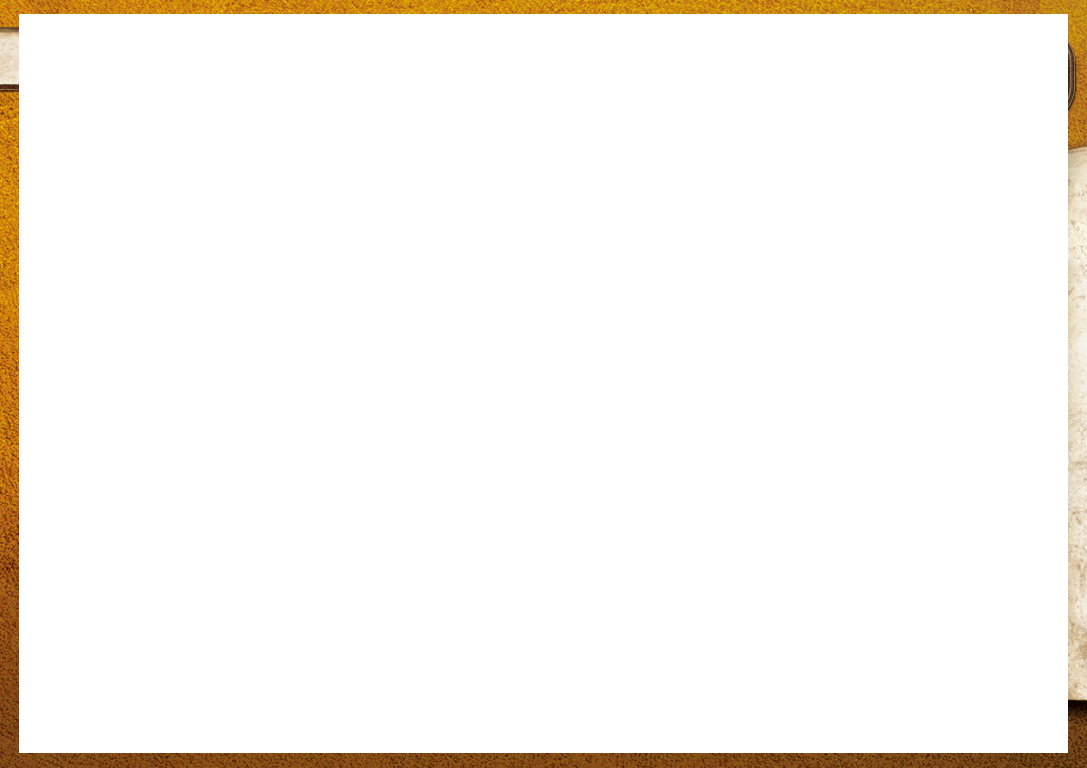
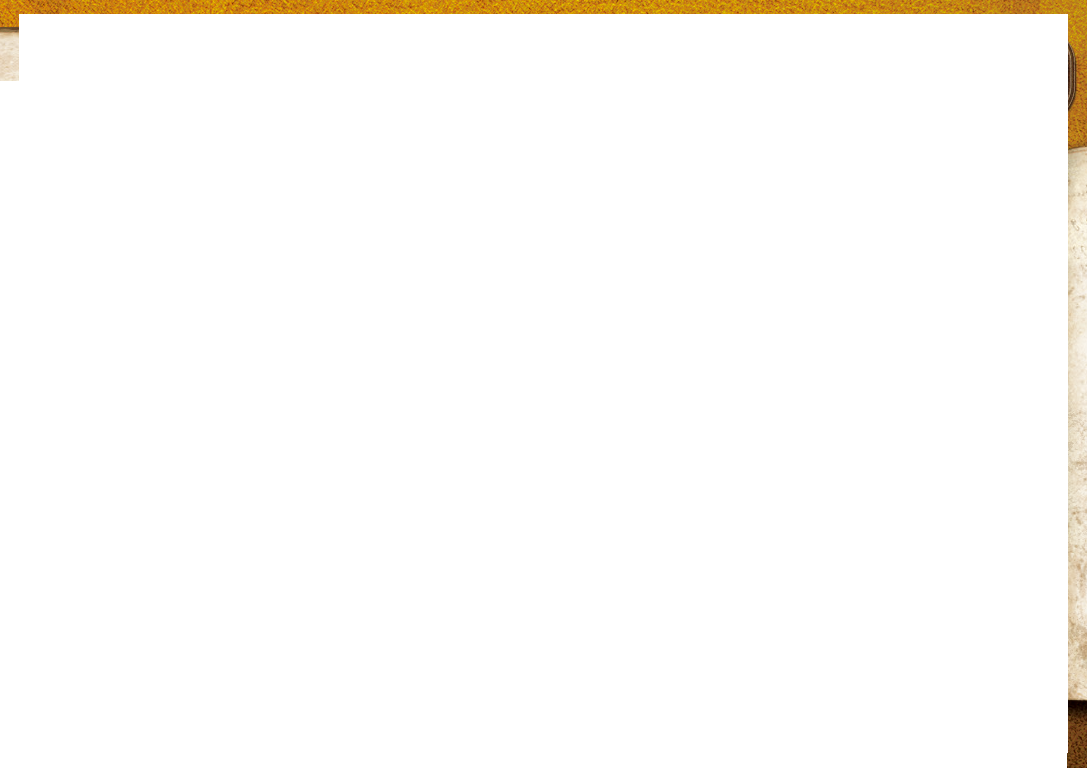
优化出血程序

Changed region(s): [[0.0, 0.0938, 1.0, 1.0]]

diff --git a/ExportHelper.py b/ExportHelper.py
@@ -1,8 +1,11 @@
 import enum
 import json
+import math
+import time
 from typing import Dict, Any, Tuple, TypeVar, Type
 
-from PIL import Image, ImageFont, ImageDraw
+import numpy as np
+from PIL import Image, ImageFont, ImageDraw, ImageEnhance
 
 from bin.workspace_manager import WorkspaceManager
 from export_helper.LamaCleaner import LamaCleaner
@@ -247,6 +250,10 @@ class ExportHelper:
         if card_json.get('class', '') == '弱点':
             # 弱点卡
             ui_name += '弱点' + card_type
+        elif card_type == '调查员卡背':
+            ui_name += '调查员卡'
+            ui_name += '-' + card_json.get('class', '')
+            ui_name += '-卡背'
         else:
             # 其他卡牌
             ui_name += card_type
@@ -256,10 +263,7 @@ class ExportHelper:
                 card_json.get('subtitle', '') != '':
             ui_name += '-副标题'
         if card_type == '调查员卡':
-            if card_json.get('is_back', False):
-                ui_name += '-卡背'
-            else:
-                ui_name += '-底图'
+            ui_name += '-底图'
         ui = self.workspace_manager.creator.image_manager.get_image(ui_name)
         if ui:
             card_map.paste(ui, (0, 0, ui.size[0], ui.size[1]), ui)
@@ -288,10 +292,9 @@ class ExportHelper:
         else:
             width, height = self.calculate_pixel_dimensions(bleed=self.bleed, size=self.size)
 
-        if not (card_json.get('type') == '调查员卡' and card_json.get('is_back', False) is False):
-            # 标准出血
-            card_map = self._standard_bleeding(card_json, card_map)
-
+        # if not (card_json.get('type') == '调查员卡' and card_json.get('is_back', False) is False):
+        #     # 标准出血
+        card_map = self._standard_bleeding(card_json, card_map)
         # 二次出血
         if self._is_horizontal(card_map):
             card_map = self._call_lama_cleaner(card_map, height, width)
@@ -299,14 +302,13 @@ class ExportHelper:
             card_map = self._call_lama_cleaner(card_map, width, height)
 
         # 优化左上角
-        if self.bleed_model == BleedModel.LAMA and self.bleed == 3:
-            print("优化左上角")
+        if self.bleed_model == BleedModel.LAMA and self.bleed == ExportBleed.THREE_MM:
             # 创建一个优化mask，创建一个图片大小的白色背景图
             mask_optimized = Image.new("RGB", card_map.size, (0, 0, 0))
             # 创建画板
             draw = ImageDraw.Draw(mask_optimized)
-            # 在左上角0,0的位置画一个40的黑色矩形
-            draw.rectangle([0, 0, 40, 40], fill=(255, 255, 255))
+            # 在左上角0,0的位置画一个30的黑色矩形
+            draw.rectangle([0, 0, 30, 30], fill=(255, 255, 255))
             card_map = self.lama_cleaner.inpaint(
                 image=card_map,
                 mask=mask_optimized
@@ -359,8 +361,10 @@ class ExportHelper:
             target_width, target_height = self.pixel_width, self.pixel_height
         bleed_offset = (int((width - 739) / 2) * dpi_scale_factor, (int((height - 1049) / 2)) * dpi_scale_factor)
         # 先将card_map缩放到目标分辨率
-        print(f"缩放至 {target_width}x{target_height}")
-        card_map = card_map.resize((target_width, target_height), Image.Resampling.LANCZOS)
+        if self._is_horizontal(card_map):
+            card_map = card_map.resize((target_height, target_width), Image.Resampling.LANCZOS)
+        else:
+            card_map = card_map.resize((target_width, target_height), Image.Resampling.LANCZOS)
         # 创建绘图对象
         draw = ImageDraw.Draw(card_map)
 
@@ -370,7 +374,7 @@ class ExportHelper:
         else:
             bleed_offset_x = bleed_offset[0]
             bleed_offset_y = bleed_offset[1]
-        print(f"出血偏移量: ({bleed_offset_x}, {bleed_offset_y}), DPI缩放因子: {dpi_scale_factor}")
+        # print(f"出血偏移量: ({bleed_offset_x}, {bleed_offset_y}), DPI缩放因子: {dpi_scale_factor}")
         for text_info in text_layer:
             try:
                 # 提取文字信息并应用DPI缩放
@@ -417,6 +421,42 @@ class ExportHelper:
         """清除字体缓存"""
         self._font_cache.clear()
 
+    @staticmethod
+    def _apply_image_adjustments(image: Image.Image, saturation: float = 1.0,
+                                 brightness: float = 1.0, gamma: float = 1.0) -> Image.Image:
+        """
+        应用饱和度、亮度和伽马调整到图像
+
+        :param image: 输入的PIL图像
+        :param saturation: 饱和度调整因子 (1.0表示不变)
+        :param brightness: 亮度调整因子 (1.0表示不变)
+        :param gamma: 伽马调整因子 (1.0表示不变)
+        :return: 调整后的图像
+        """
+        # 应用饱和度调整
+        if not math.isclose(saturation, 1.0):
+            enhancer = ImageEnhance.Color(image)
+            image = enhancer.enhance(saturation)
+
+        # 应用亮度调整
+        if not math.isclose(brightness, 1.0):
+            enhancer = ImageEnhance.Brightness(image)
+            image = enhancer.enhance(brightness)
+
+        # 应用伽马调整
+        if not math.isclose(gamma, 1.0):
+            # 将图像转换为numpy数组进行处理
+            img_array = np.array(image, dtype=np.float32) / 255.0
+            # 应用伽马校正
+            img_array = np.power(img_array, gamma)
+            # 将值限制在0-1范围内
+            img_array = np.clip(img_array, 0, 1)
+            # 转换回0-255范围并创建图像
+            img_array = (img_array * 255).astype(np.uint8)
+            image = Image.fromarray(img_array)
+
+        return image
+
     def export_card(self, card_path: str):
         """导出"""
         card_json = self.workspace_manager.get_file_content(card_path)
@@ -430,17 +470,23 @@ class ExportHelper:
         # 绘制文字层
         text_layer = card_layer.get_text_layer_metadata()
         card_map_image = self._draw_text_layer(card_map_image, text_layer)
-        card_map_image.show()
+        card_map_image = self._apply_image_adjustments(
+            card_map_image,
+            saturation=self.saturation,
+            brightness=self.brightness,
+            gamma=self.gamma
+        )
+        return card_map_image
 
 
 if __name__ == "__main__":
     # 定义一个系统默认配置
     system_defaults = {
         "format": "PNG",
-        "size": ExportSize.SIZE_61_88.value,  # "63.5mm × 88.9mm (2.5″ × 3.5″)"
+        "size": ExportSize.POKER_SIZE.value,  # "63.5mm × 88.9mm (2.5″ × 3.5″)"
         "dpi": 600,
-        "bleed": 3,
-        "bleed_mode": "裁剪",
+        "bleed": 2,
+        "bleed_mode": "拉伸",
         "bleed_model": "LaMa模型出血",  # LaMa模型出血 镜像出血
         "quality": 90,  # 系统默认JPG质量
         "saturation": 1.0,
@@ -449,7 +495,11 @@ if __name__ == "__main__":
     }
     export_helper = ExportHelper(system_defaults, WorkspaceManager(r'D:\汉化文件夹\Test English Project'))
     print(export_helper)
-    export_helper.export_card(r'3.card')
+    # 计算出血时间
+    t = time.time()
+    export_helper.export_card(r'1.card').show()
+    # 输出耗时 单位秒 保留2位小数
+    print(f'耗时: {round(time.time() - t, 2)}s')
     # export_helper = ExportHelper(system_defaults, WorkspaceManager(r'D:\汉化文件夹\测试工作空间'))
     # print(export_helper)
     # export_helper.export_card(r'支援卡.card')

diff --git a/export_helper/LamaCleaner.py b/export_helper/LamaCleaner.py
@@ -201,7 +201,7 @@ class LamaCleaner:
         mask_image.paste(mask_black_region, (x_offset, y_offset))
 
         # 4. 调用inpaint方法进行出血处理
-        print("正在使用 lama-cleaner API进行扩展...")
+        # print("正在使用 lama-cleaner API进行扩展...")
         result = self.inpaint(base_image, mask_image, **kwargs)
         return result
 
@@ -252,7 +252,7 @@ class LamaCleaner:
             raise ValueError(f"不支持的图像维度: {image_array.ndim}。只支持彩色和灰度图。")
 
         # 使用 numpy.pad 进行镜像填充 ('reflect' 模式)
-        print("正在使用镜像延伸方式进行扩展...")
+        # print("正在使用镜像延伸方式进行扩展...")
         padded_array = np.pad(image_array, pad_width=pad_spec, mode='reflect')
 
         # 将处理后的 numpy 数组转换回 PIL Image

diff --git a/export_helper/INSTALL_en-US.md b/export_helper/INSTALL_en-US.md
@@ -1,0 +1,82 @@
+[简体中文](./INSTALL_zh-CN.md) | **English**
+
+# 🎨 Lama Cleaner Installation Guide
+
+This guide will walk you through the installation process for Lama Cleaner, a powerful, free and open-source inpainting tool.
+
+## Step 1: Install Python Environment
+
+Lama Cleaner requires a Python environment to run.
+
+- **Supported Versions:** Python 3.7 ~ 3.10
+- **Official Download Page:** [https://www.python.org/downloads/](https://www.python.org/downloads/)
+
+> **Note:** Based on community testing, Python 3.11 also works correctly at the moment.
+
+Please download and install a suitable Python version for your operating system from the official website. Ensure that the `python` and `pip` commands are added to your system's PATH.
+
+## Step 2: Install Lama Cleaner
+
+You can choose to install the GPU-accelerated version or the CPU-only version based on your hardware.
+
+### 🚀 GPU Accelerated Version (Recommended)
+
+If you have a CUDA-compatible NVIDIA GPU, it is highly recommended to install this version for the best performance.
+
+1.  **Install PyTorch with CUDA Support**
+
+    First, you need to install a version of PyTorch that matches your CUDA version. Visit the following link to generate the correct installation command for your system:
+    - **Official PyTorch Get Started Page:** [https://pytorch.org/get-started/locally/](https://pytorch.org/get-started/locally/)
+
+    **Example Command (Windows & Linux, for CUDA 12.1):**
+    ```bash
+    pip3 install torch torchvision torchaudio --index-url https://download.pytorch.org/whl/cu121
+    ```
+    > **Attention:** Please replace `cu121` in the command with your own CUDA version (e.g., `cu118`). If you are unsure about your CUDA version, you can check it by running `nvidia-smi` in your terminal.
+
+2.  **Install Lama Cleaner**
+
+    After PyTorch is installed, execute the following command to install Lama Cleaner:
+    ```bash
+    pip install lama-cleaner
+    ```
+
+### 💻 CPU-Only Version
+
+If you do not have an NVIDIA GPU or prefer not to set up the CUDA environment, you can opt for the CPU-only version.
+
+Simply run the following command in your terminal or command prompt:
+```bash
+pip install lama-cleaner
+```
+*pip will automatically install the CPU version of PyTorch for you.*
+
+## Step 3: Launch the Application
+
+Once the installation is complete, use the following commands to start the Lama Cleaner service.
+
+- **To launch with GPU support:**
+  ```bash
+  lama-cleaner --model=lama --device=cuda --port=8080
+  ```
+
+- **To launch with CPU support:**
+  ```bash
+  lama-cleaner --model=lama --device=cpu --port=8080
+  ```
+
+> #### Parameter Explanation:
+> - `--model=lama`: Specifies the inpainting model to use. `lama` is one of the default and best-performing models.
+> - `--device=cuda`: Specifies that the computation should be done on the **GPU**.
+> - `--device=cpu`: Specifies that the computation should be done on the **CPU**.
+> - `--port=8080`: Specifies the port on which the service will run. You can change this to any other available port.
+
+## Step 4: Verify the Installation
+
+After the service starts successfully, you will see an output in your terminal similar to `Uvicorn running on http://0.0.0.0:8080`.
+
+Now, open your web browser and navigate to the following address:
+
+**[http://localhost:8080](http://localhost:8080)**
+
+If you can see the Lama Cleaner web interface, it means the installation and launch were successful! 🎉

diff --git a/export_helper/INSTALL_zh-CN.md b/export_helper/INSTALL_zh-CN.md
@@ -1,0 +1,82 @@
+**简体中文** | [English](./INSTALL_en-US.md)
+
+# 🎨 Lama Cleaner 安装指南
+
+本指南将引导您完成 Lama Cleaner 的安装过程。Lama Cleaner 是一款强大的、免费且开源的图像修复工具。
+
+## 步骤 1: 安装 Python 环境
+
+Lama Cleaner 需要 Python 环境才能运行。
+
+- **支持版本:** Python 3.7 ~ 3.10
+- **官方下载地址:** [https://www.python.org/downloads/](https://www.python.org/downloads/)
+
+> **提示:** 根据社区测试，Python 3.11 版本目前也可以正常工作。
+
+请先从官网下载并安装适合您操作系统的 Python 版本，并确保 `python` 和 `pip` 命令已正确添加到系统环境变量中。
+
+## 步骤 2: 安装 Lama Cleaner
+
+您可以根据自己的硬件情况选择安装 GPU 加速版或仅 CPU 版。
+
+### 🚀 GPU 加速版 (推荐)
+
+如果您拥有兼容 CUDA 的 NVIDIA 显卡，强烈建议安装此版本以获得最佳性能。
+
+1.  **安装支持 CUDA 的 PyTorch**
+
+    首先，您需要根据您的 CUDA 版本安装对应的 PyTorch。请访问以下地址，生成适合您系统的安装命令：
+    - **PyTorch 官方安装向导:** [https://pytorch.org/get-started/locally/](https://pytorch.org/get-started/locally/)
+
+    **安装示例 (Windows & Linux, CUDA 12.1):**
+    ```bash
+    pip3 install torch torchvision torchaudio --index-url https://download.pytorch.org/whl/cu121
+    ```
+    > **注意:** 请将命令中的 `cu121` 替换为您自己的 CUDA 版本 (例如 `cu118`)。如果您不确定自己的 CUDA 版本，可以在终端中运行 `nvidia-smi` 命令查看。
+
+2.  **安装 Lama Cleaner**
+
+    安装完 PyTorch后，执行以下命令安装 Lama Cleaner：
+    ```bash
+    pip install lama-cleaner
+    ```
+
+### 💻 CPU 版
+
+如果您的电脑没有 NVIDIA 显卡，或者不想配置 CUDA 环境，可以选择安装 CPU 版本。
+
+直接在您的终端或命令提示符中运行以下命令即可：
+```bash
+pip install lama-cleaner
+```
+*pip 会自动为您安装 CPU 版本的 PyTorch。*
+
+## 步骤 3: 启动服务
+
+安装完成后，使用以下命令启动 Lama Cleaner 服务。
+
+- **使用 GPU 启动:**
+  ```bash
+  lama-cleaner --model=lama --device=cuda --port=8080
+  ```
+
+- **使用 CPU 启动:**
+  ```bash
+  lama-cleaner --model=lama --device=cpu --port=8080
+  ```
+
+> #### 参数说明:
+> - `--model=lama`: 指定使用的修复模型，`lama` 是默认且效果最好的模型之一。
+> - `--device=cuda`: 指定使用 **GPU** 进行计算。
+> - `--device=cpu`: 指定使用 **CPU** 进行计算。
+> - `--port=8080`: 指定服务运行的端口，您可以更改为其他未被占用的端口。
+
+## 步骤 4: 验证运行
+
+服务启动成功后，您会在终端看到类似 `Uvicorn running on http://0.0.0.0:8080` 的输出。
+
+此时，打开您的浏览器并访问以下地址：
+
+**[http://localhost:8080](http://localhost:8080)**
+
+如果能看到 Lama Cleaner 的界面，则说明安装和启动都已成功！🎉
